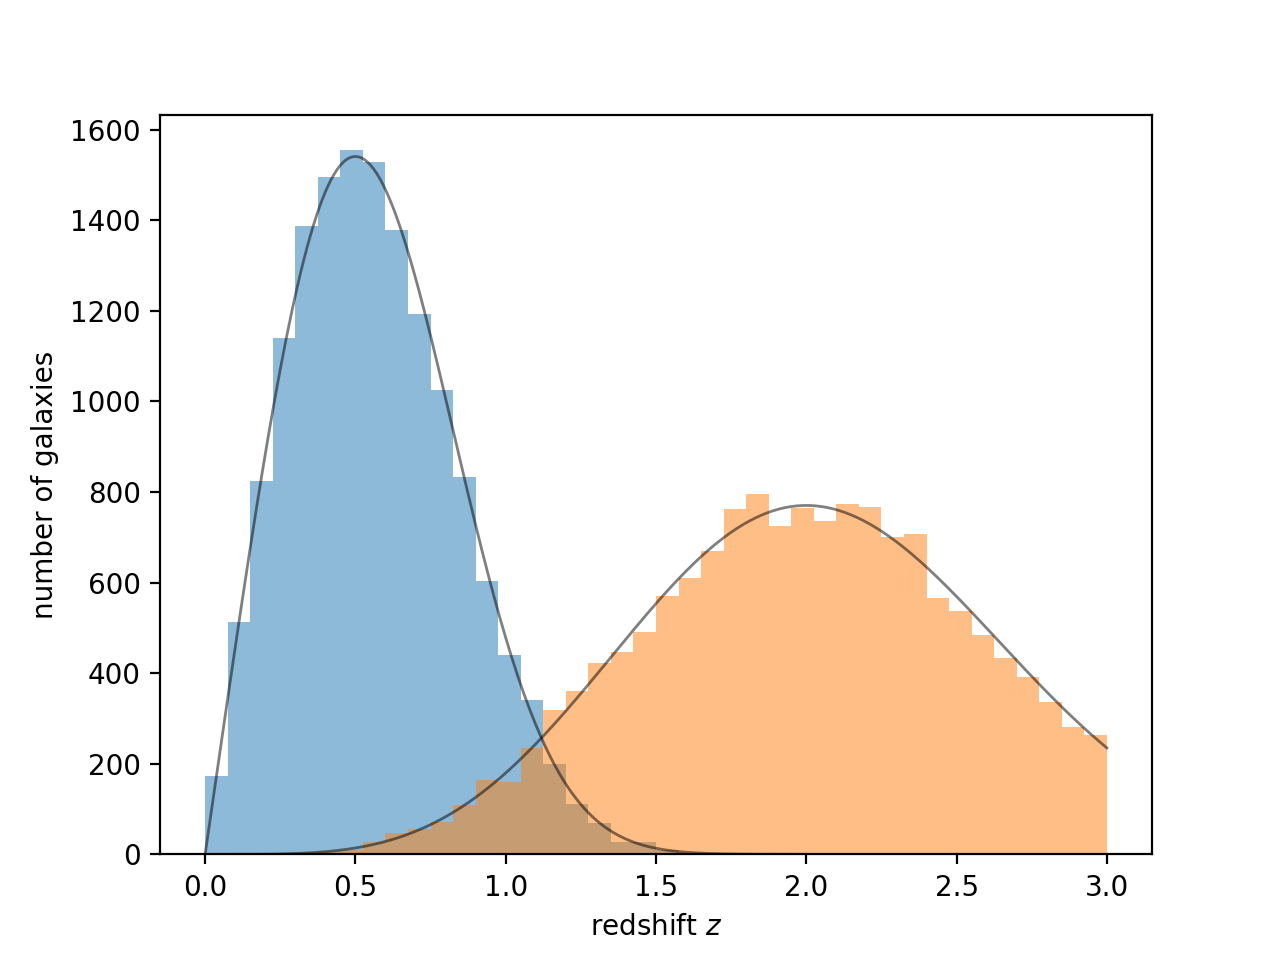
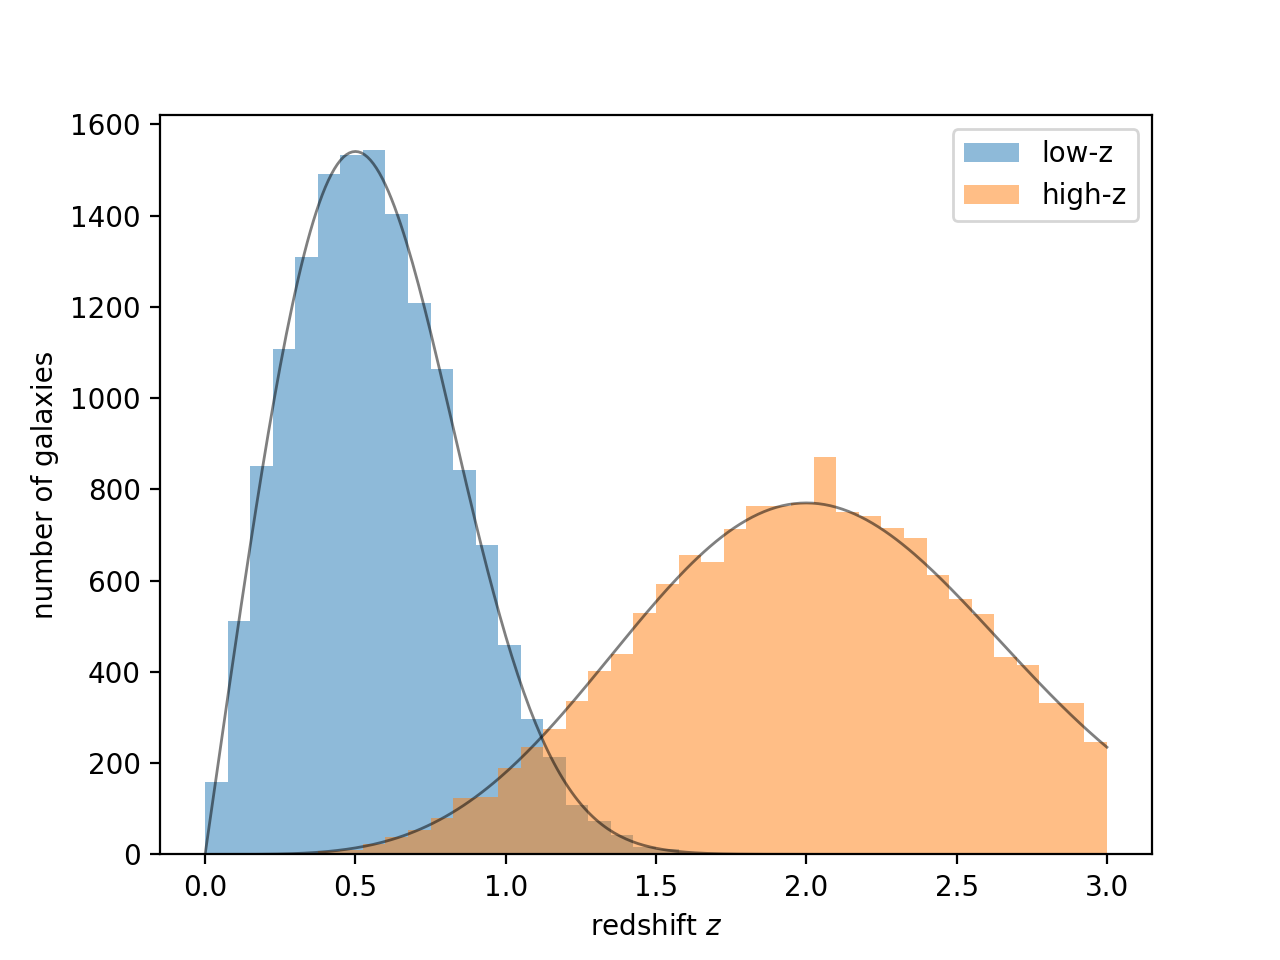
add legend to example

diff --git a/examples/1_basic/groups.py b/examples/1_basic/groups.py
@@ -70,9 +70,10 @@ for shell in glass.sim.generate(generators):
 
 norm = glass.util.ARCMIN2_SPHERE*(z[-1] - z[0])/40
 
-for zz, nz in (low_z, dndz_low), (high_z, dndz_high):
-    plt.hist(zz, bins=40, range=(z[0], z[-1]), histtype='stepfilled', alpha=0.5)
+for zz, nz, label in (low_z, dndz_low, 'low-z'), (high_z, dndz_high, 'high-z'):
+    plt.hist(zz, bins=40, range=(z[0], z[-1]), histtype='stepfilled', alpha=0.5, label=label)
     plt.plot(z, norm*nz, '-k', lw=1, alpha=0.5)
 plt.xlabel('redshift $z$')
 plt.ylabel('number of galaxies')
+plt.legend()
 plt.show()

diff --git a/docs/examples/1_basic/groups.rst b/docs/examples/1_basic/groups.rst
@@ -112,18 +112,19 @@ Plots
 -----
 Plot the two distributions together with the expected inputs.
 
-.. GENERATED FROM PYTHON SOURCE LINES 70-79
+.. GENERATED FROM PYTHON SOURCE LINES 70-80
 
 .. code-block:: default
 
 
     norm = glass.util.ARCMIN2_SPHERE*(z[-1] - z[0])/40
 
-    for zz, nz in (low_z, dndz_low), (high_z, dndz_high):
-        plt.hist(zz, bins=40, range=(z[0], z[-1]), histtype='stepfilled', alpha=0.5)
+    for zz, nz, label in (low_z, dndz_low, 'low-z'), (high_z, dndz_high, 'high-z'):
+        plt.hist(zz, bins=40, range=(z[0], z[-1]), histtype='stepfilled', alpha=0.5, label=label)
         plt.plot(z, norm*nz, '-k', lw=1, alpha=0.5)
     plt.xlabel('redshift $z$')
     plt.ylabel('number of galaxies')
+    plt.legend()
     plt.show()
 
 
@@ -140,7 +141,7 @@ Plot the two distributions together with the expected inputs.
 
 .. rst-class:: sphx-glr-timing
 
-   **Total running time of the script:** ( 0 minutes  0.377 seconds)
+   **Total running time of the script:** ( 0 minutes  0.500 seconds)
 
 
 .. _sphx_glr_download_examples_1_basic_groups.py:
